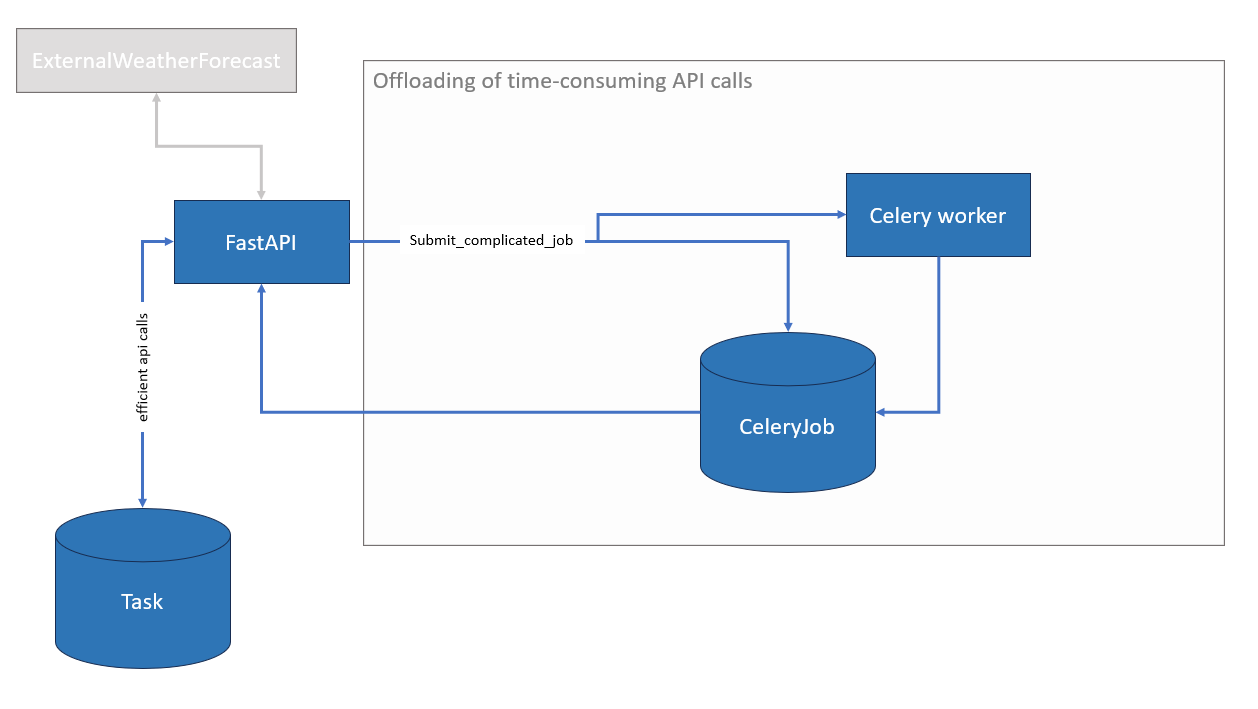
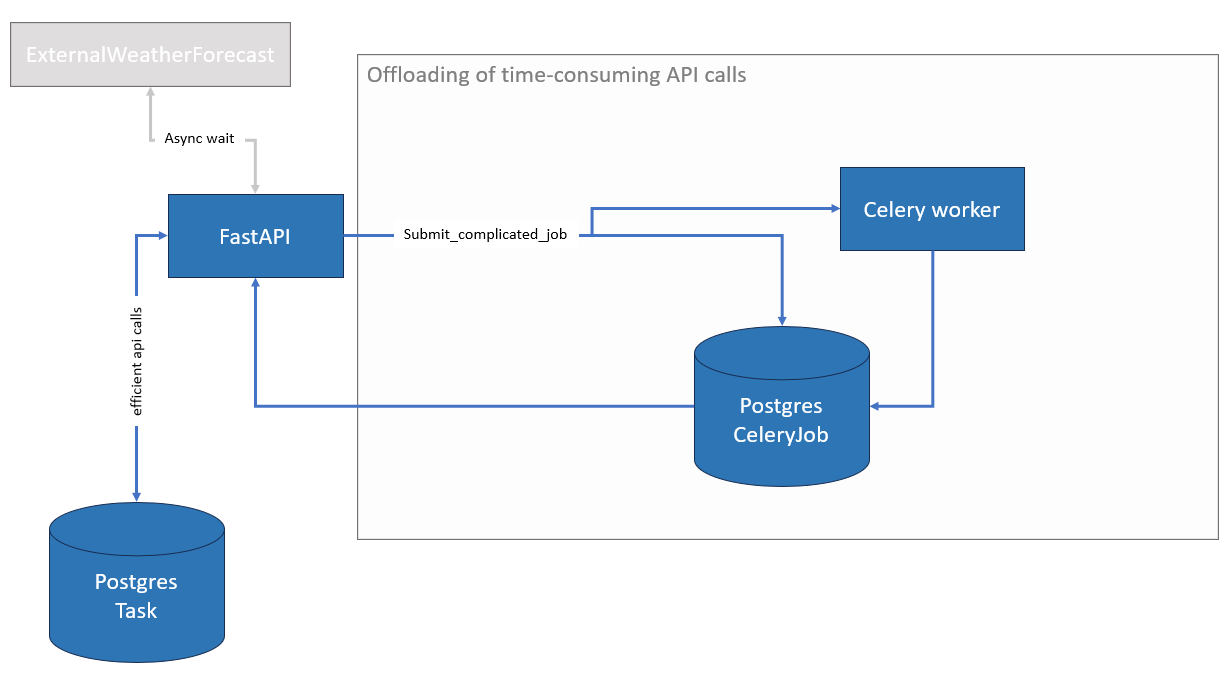
Working with README.md

diff --git a/README.md b/README.md
@@ -1,128 +1,60 @@
 # Weather Forecast Service
-
 This project delivers a FastAPI application for forecasting offshore weather, running schedule analyses, and delegating long-running computations to a Celery worker backed by Redis. PostgreSQL stores task metadata and job results, while a JSON payload provides a lightweight weather feed for demonstration purposes.
 
 ## Documentation
-
 Interactive OpenAPI documentation is available once the API is running at **http://localhost:8020/docs**.
 
-## Project structure
+## App design
 
-```
-WeatherForecast/
-├── app/
-│   ├── main.py                  # FastAPI entrypoint and weather endpoints
-│   ├── api/
-│   │   ├── schedule.py          # Scheduling endpoints consuming the weather API
-│   │   └── heavy_lift_job.py    # Celery-backed job submission endpoints
-│   ├── celery_app.py            # Celery configuration
-│   ├── celery_tasks/
-│   │   └── heavy_lift.py        # Example background task
-│   ├── database.py              # SQLAlchemy engine and session helpers
-│   ├── init_mock_schedule_db.py # Demo database bootstrapper
-│   ├── lib.py                   # Wave-height analysis helpers
-│   ├── models/                  # ORM models for schedules and jobs
-│   ├── mock_forecast.json       # Sample forecast consumed by the API
-│   └── weather_forecast.json    # Optional alternate forecast payload
-├── demo_tools/
-│   ├── generate_weather_forecast_mock.py # Regenerates the demo forecast JSON
-│   └── put_and_post.py                   # Example interactions with the API
-├── docker-compose.yml           # Local stack: API, worker, PostgreSQL, Redis
-└── requirements.txt             # Python dependencies
-```
+The app is designed in the FastAPI framework utilizing PostgreSQL as database. A celery framework is also in place to handle longer duration tasks.
+![Diagram](graphics/flow_chart.png)
 
-### How the pieces fit together
+### FastAPI
+The app is designed using FastAPI. FastAPI is selected as it's a more modern API framework. 
 
-1. **Weather API (`app/main.py`)** filters the JSON forecast and exposes `/weather` and `/weather_next_12_hours`.
-2. **Schedule router (`app/api/schedule.py`)** queries the database, fetches weather data from the local API, and evaluates workability windows through `app.lib` utilities (placeholder for external libraries).
-3. **Celery workflow (`app/api/heavy_lift_job.py` + `app/celery_tasks/heavy_lift.py`)** records jobs in PostgreSQL and processes them asynchronously via Redis-backed workers.
-4. **Database helpers (`app/database.py`, `app/models`)** centralize SQLAlchemy configuration and ORM definitions.
-5. **Demo scripts (`demo_tools/`)** regenerate mock data and showcase basic client interactions.
+### PostgreSQL
+Selected on the following criteria
+-Price(open source)
+-JSON support
+-Familiar with relational databases
+
+
+### Docker
+Docker is used to bundle the app. It is portable and easy to spin up across computers/clients
+
 
 ## Getting started
 
-### 1. Launch docker setup
+### Launch docker setup
 This assumes docker is installed on host
 ```bash
 docker compose up --build
 ```
 
-### 2. Start infrastructure
-
-Spin up PostgreSQL and Redis, either manually or with Docker Compose:
-
-```bash
-docker compose up -d db redis
-```
-
 Credentials default to `postgres/postgres` with database `appdb` (see `docker-compose.yml`).
 
-### 3. Seed the demo schema
-
+### Seed the demo schema
+This is automatically done in the app, but schould be removed in a production app
 ```bash
 python -m app.init_mock_schedule_db
 ```
 
-The script recreates the schedule and heavy-lift job tables and inserts sample tasks.
-
-To refresh the mock forecast consumed by the weather endpoints, run:
-
+### Patch mock dat-set for weather forecast
+Script that enlarges the mock data-set provided, such that we can use today+12h without running out of data.
 ```bash
 python -m demo_tools.generate_weather_forecast_mock
 ```
 
-### 4. Run the FastAPI app
-
-Keep the service on port `8006` so the schedule router can reach the weather API without code changes:
-
+### Run the FastAPI app
+The app is launched by running docker-compose.yml, it can be run otherwise by. Keep port at 8020 for "external weather service" to work
 ```bash
-uvicorn app.main:app --reload --port 8006
+uvicorn app.main:app --reload --port 8020
 ```
 
-The server exposes the following endpoints:
-
-* `GET /weather`
-* `GET /weather_next_12_hours`
-* `GET /schedule/window`
-* `GET /schedule/tasks`
-* `PUT /schedule/task/{id}/started`
-* `PUT /schedule/task/{id}/complete`
-* `POST /celery-worker/heavy-lift`
-* `GET /celery-worker/tasks`
-
-### 5. Run a Celery worker (optional but required for heavy-lift jobs)
-
-```bash
-celery -A app.celery_app:celery_app worker -l info
-```
-
-Ensure `CELERY_BROKER_URL` and `CELERY_RESULT_BACKEND` point to your Redis instance. When using Docker Compose, these default to the bundled Redis service.
-
-### 6. Try the demo
-
-* Visit **http://localhost:8006/docs** for interactive API docs.
+### Try the demo
+* Visit **http://localhost:8020/docs** for interactive API docs.
 * Trigger sample requests with `python -m demo_tools.put_and_post`.
 
-### 7. Shut everything down
 
-```bash
-docker compose down
-```
-
-## Environment variables
-
-| Variable | Purpose | Default |
-|----------|---------|---------|
-| `DATABASE_URL` | SQLAlchemy connection string | `postgresql+psycopg2://postgres:postgres@localhost:5432/appdb` |
-| `CELERY_BROKER_URL` | Celery broker location | `redis://redis:6379/0` |
-| `CELERY_RESULT_BACKEND` | Celery result backend | `redis://redis:6379/1` |
-
-Override these as needed when deploying or running locally without Docker.
-
-## Development tips
-
-* Update `app/mock_forecast.json` to model different sea states without touching application code.
-* Adjust `app/lib.py` to experiment with alternative go/no-go logic.
-* If you change the API port, also update the hard-coded URL in `app/api/schedule.py`.
-
-Enjoy building on the service.
+## Testing
+The docker containers can be launched with GitHub actions to perform tests in the api calls.
